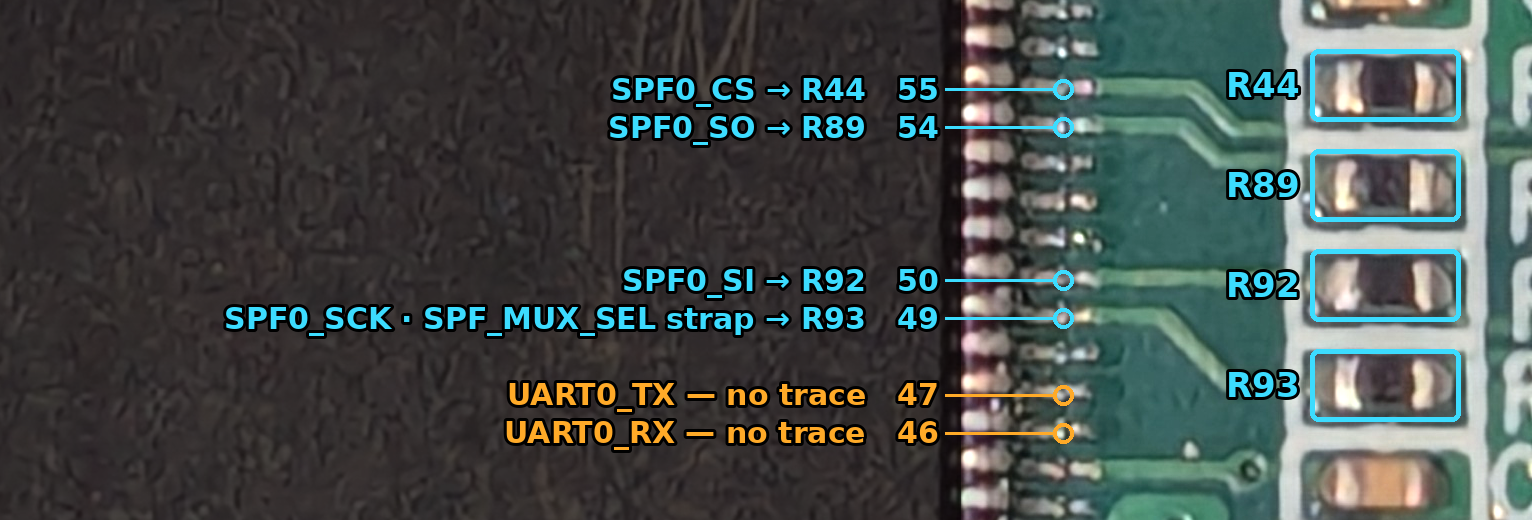
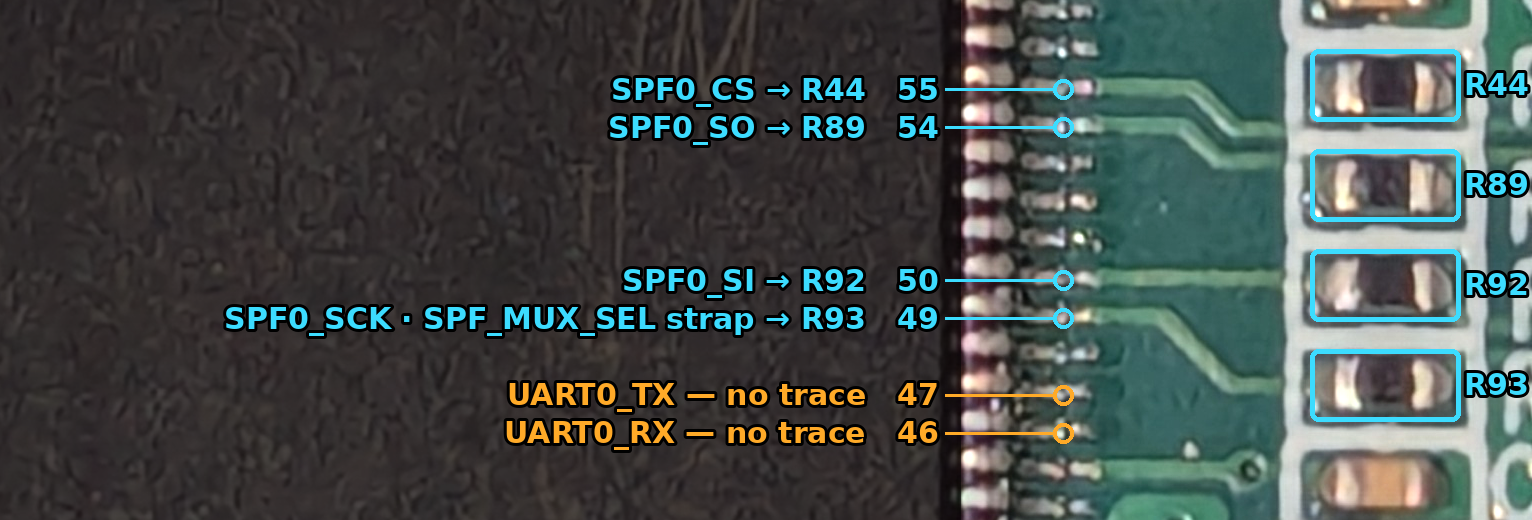
Put the SPF0 resistor names beside their boxes, clear of the traces
Claude-Session: https://claude.ai/code/session_01T8XQLu2hHeQn1gVyGrjSAf

diff --git a/research/lx-is601f-board/annotate.py b/research/lx-is601f-board/annotate.py
@@ -145,7 +145,7 @@ for n, t, col in RIGHT:
 for lab, y in (('R44', 1825), ('R89', 1925), ('R92', 2025), ('R93', 2125)):
     px, py = c.P(2925, y)
     c.d.rounded_rectangle((px - 75, py - 36, px + 75, py + 36), radius=8, outline=SPI, width=5)
-    c.text(2840, y, lab, fs, SPI, 'rm')
+    c.text(3004, y, lab, fp, SPI, 'lm')                   # right of the box, clear of the trace into the pad
 c.save('u4-pins-right-edge-annotated.png')
 
 # ---------- U4 and the parts beside it, with their silkscreen names, on board A ----------
